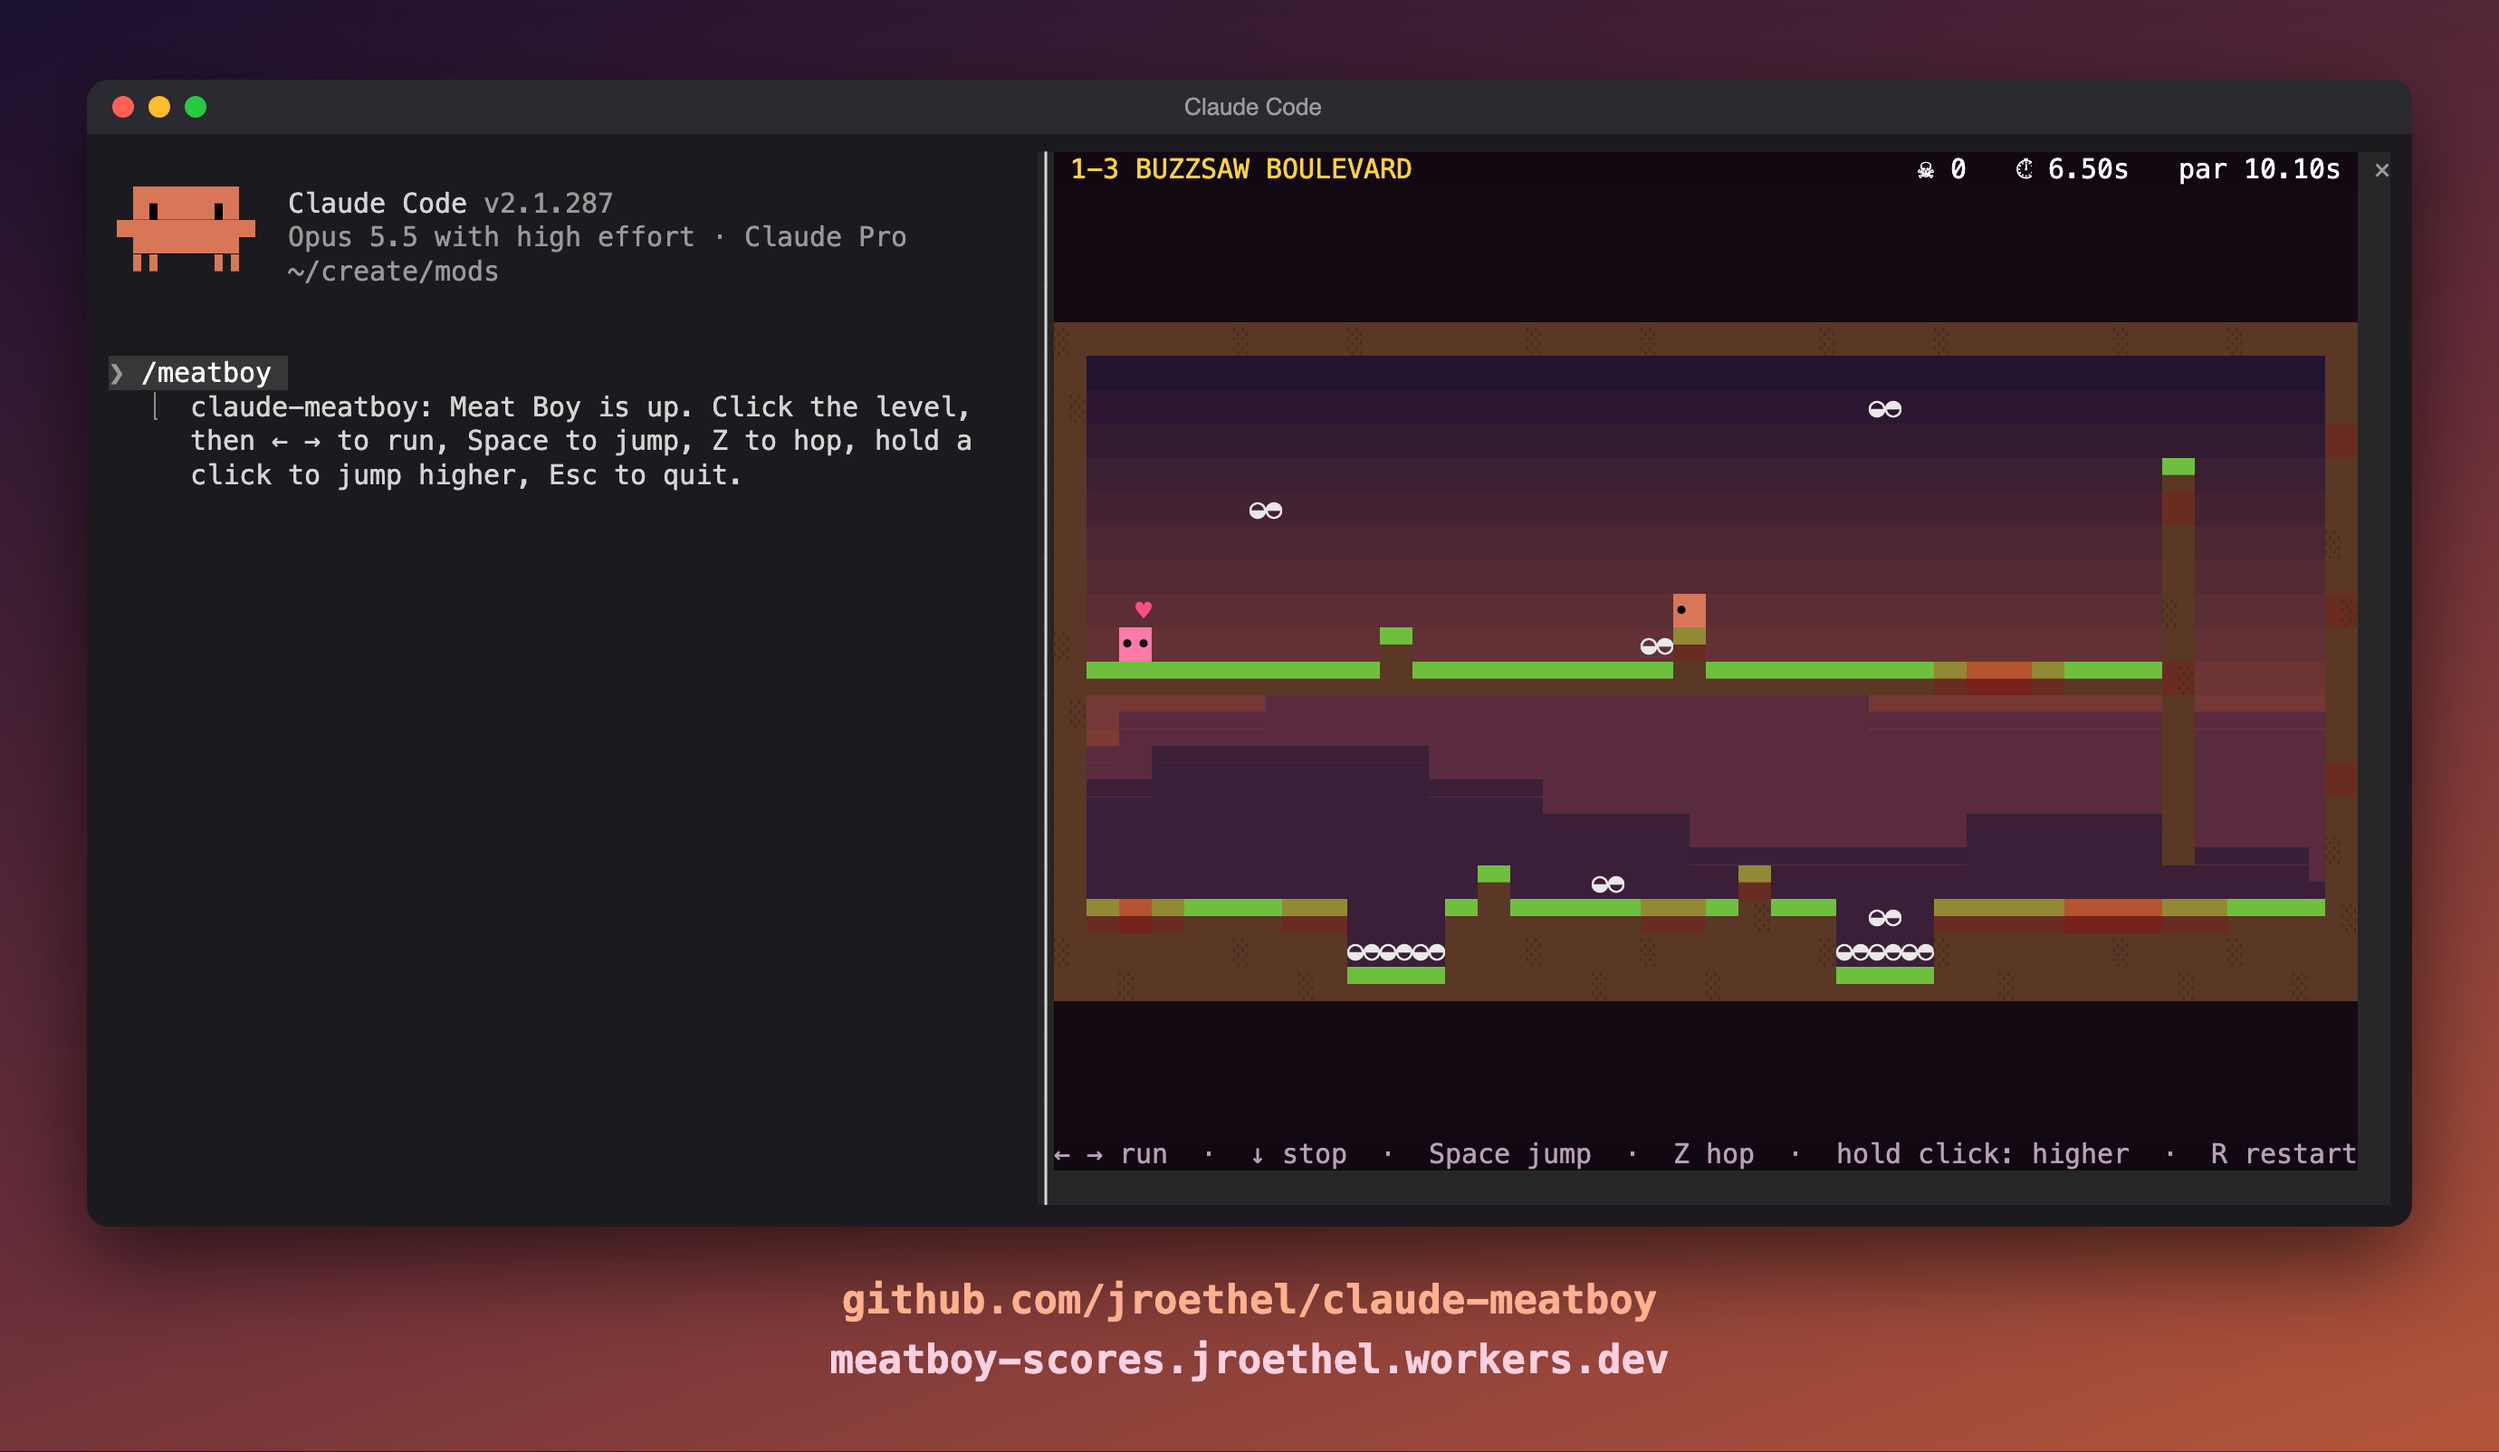
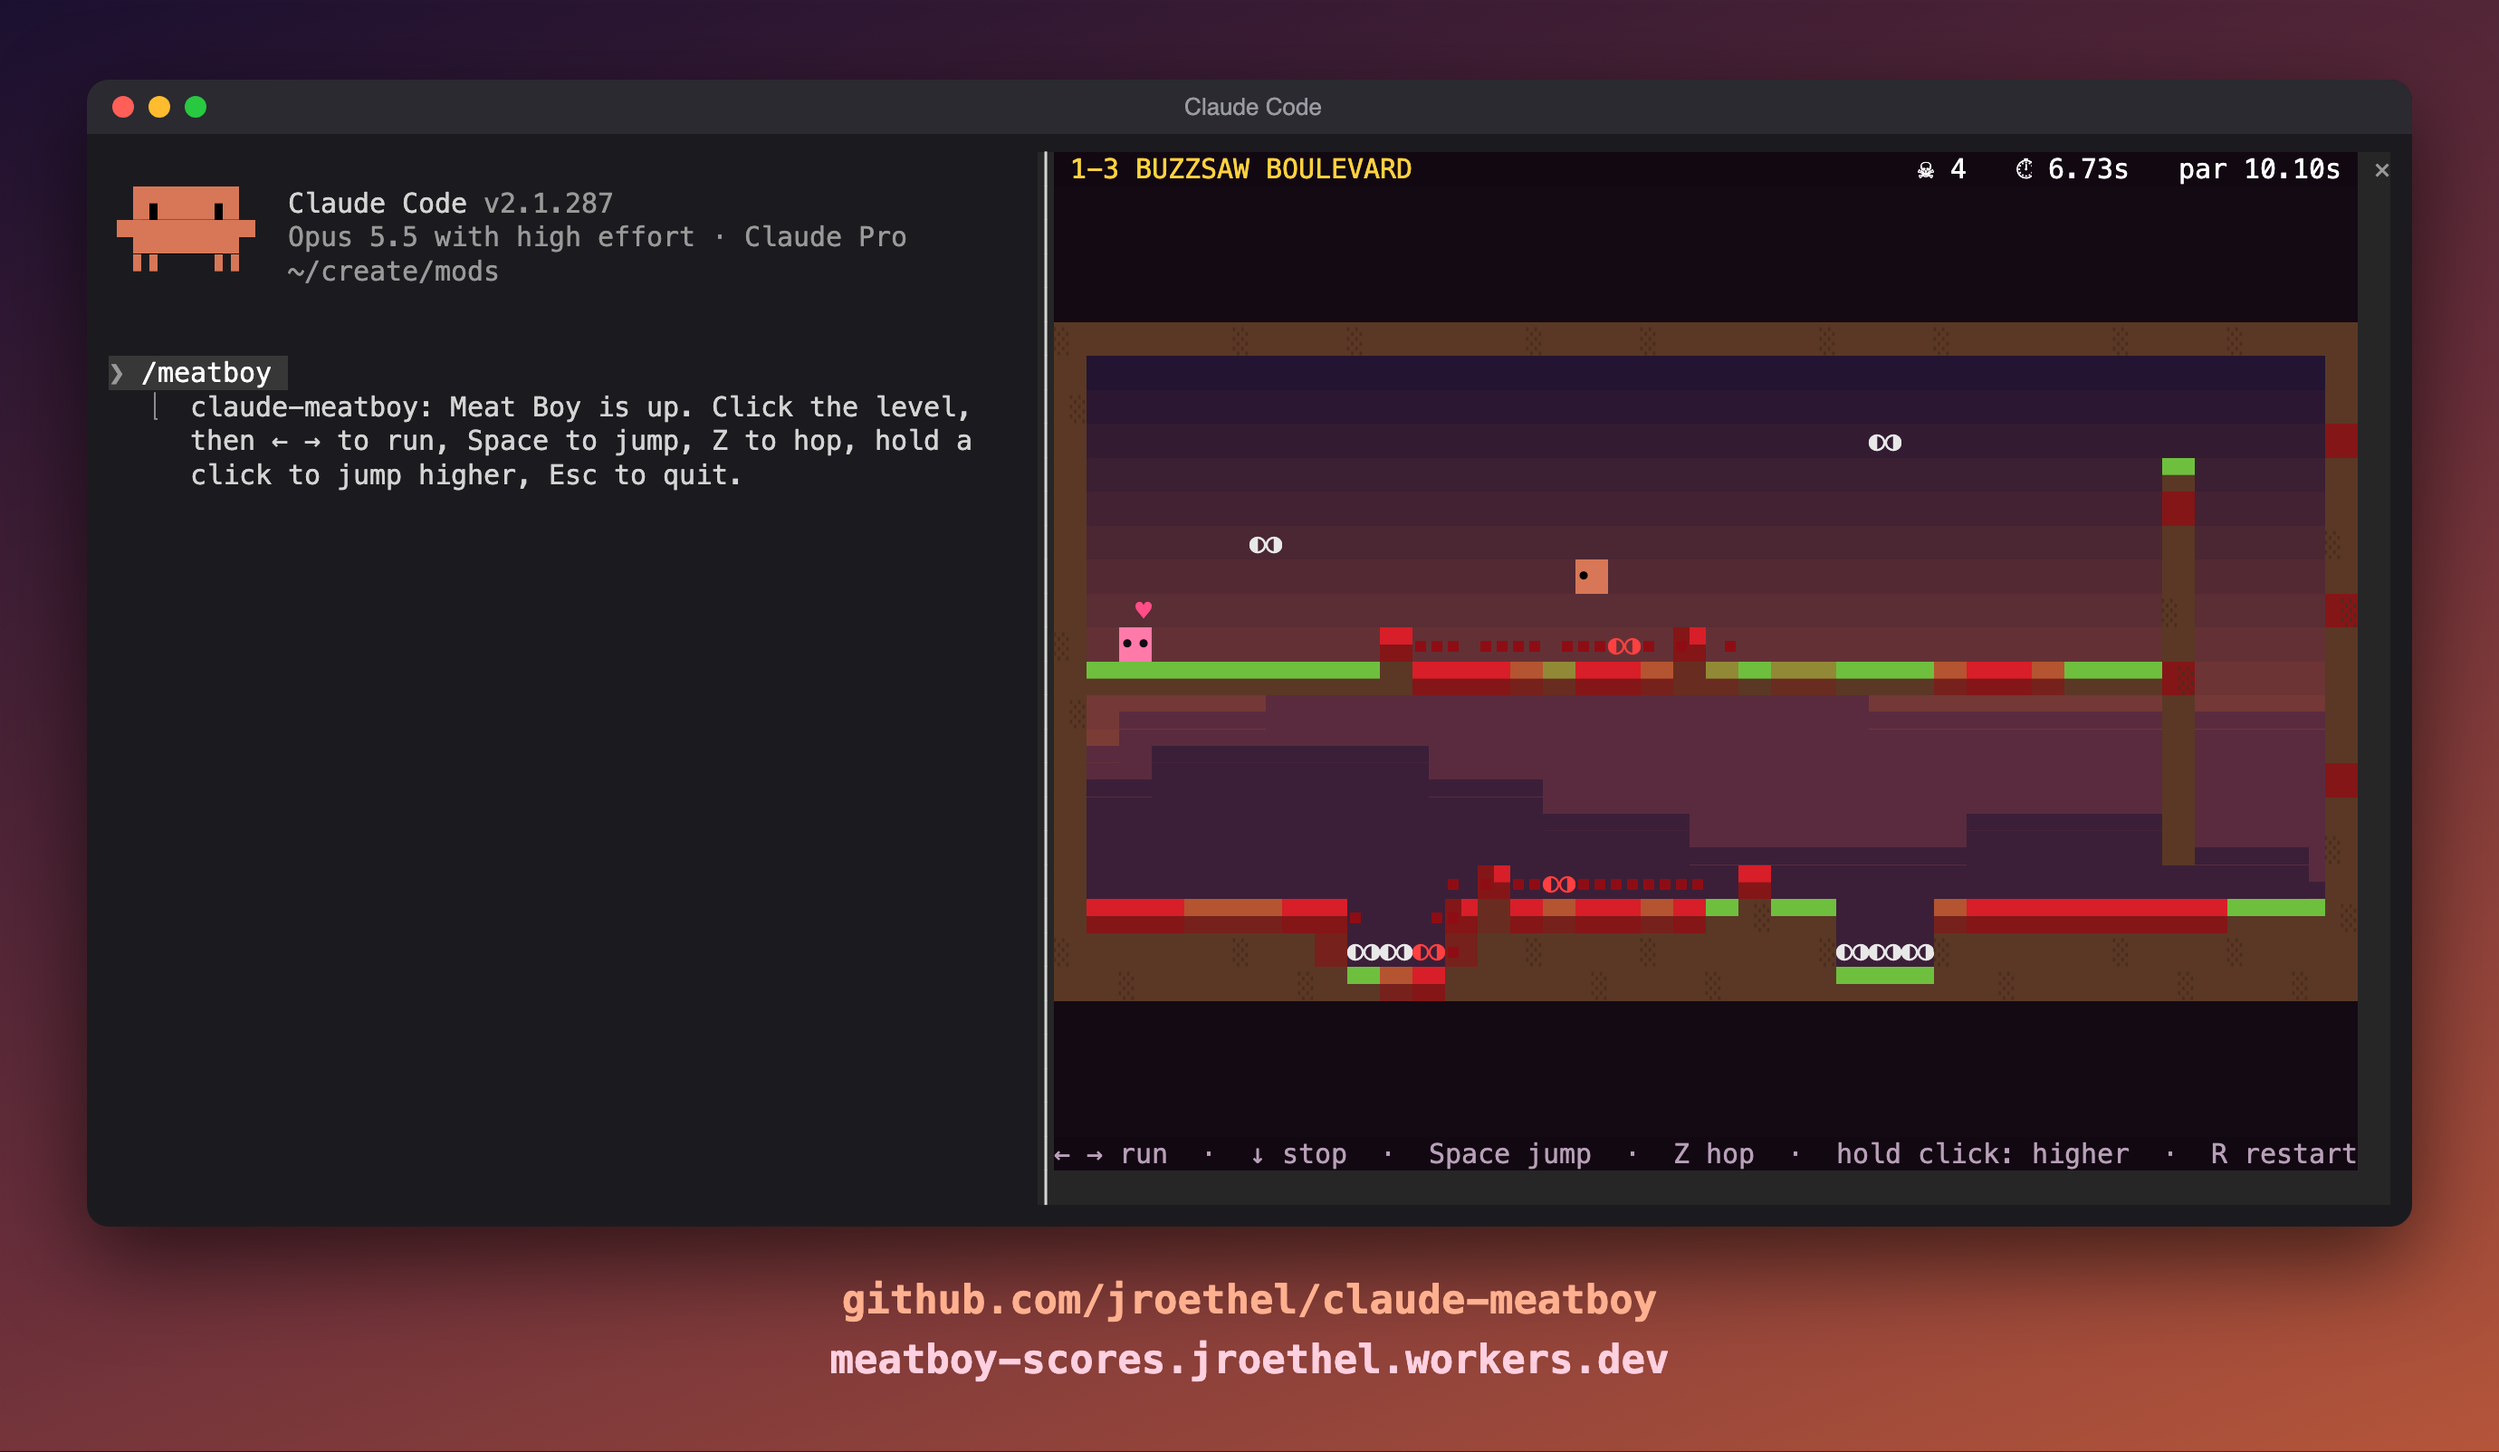
New screenshot: Clawd in mid-air over a bloody saw on 1-3, now at the bottom of the README

diff --git a/README.md b/README.md
@@ -12,8 +12,6 @@ Chapter 1 has 6 levels, played in a pane, with saws, wall-jumps, crumbling block
 Chapter 2 is on the way.
 Finish a run and it goes on a world scoreboard under your X handle.
 
-<img src="screenshot.png" width="100%" alt="Claude Code with Claude Meatboy in a side pane: 1-3 Buzzsaw Boulevard at 6.50s, Clawd jumping a saw on patrol">
-
 ## Play
 
 ```
@@ -73,3 +71,7 @@ cd scoreboard && npx wrangler deploy
 
 A fan tribute to Super Meat Boy by Team Meat, not affiliated with or endorsed by them.
 Clawd is the mascot from Claude Code's banner.
+
+## Screenshot
+
+<img src="screenshot.png" width="100%" alt="Claude Code with Claude Meatboy in a side pane: 1-3 Buzzsaw Boulevard after four deaths, Clawd in mid-air over a bloody saw">
